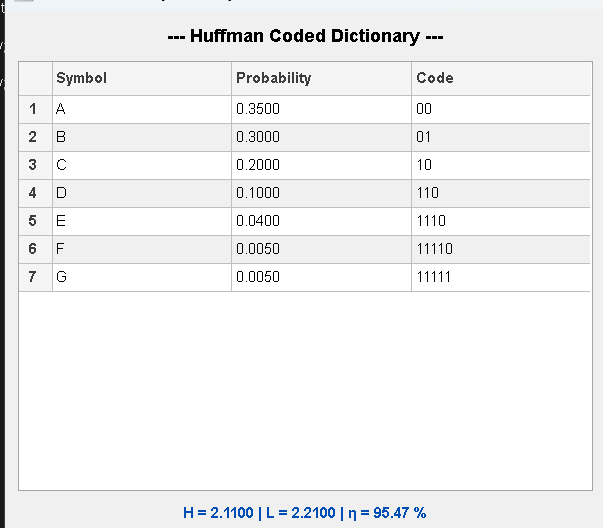
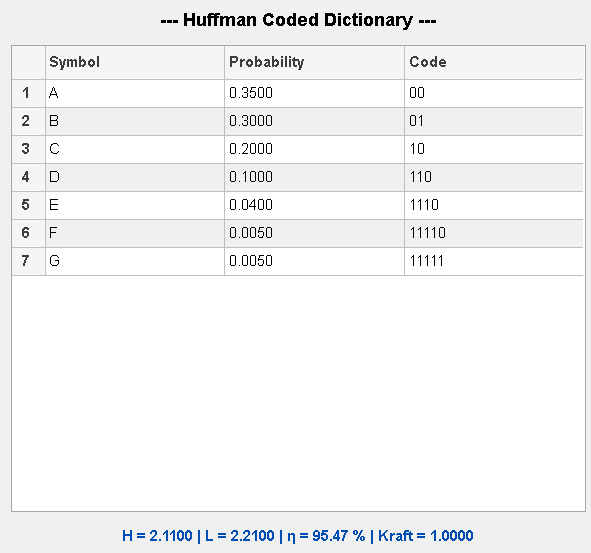
finished coding
now it's for fano!

Changed region(s): [[0.0, 0.0, 1.0, 1.0], [0.0914, 0.5152, 0.1218, 0.5455]]

diff --git a/Source Coding/Source_code.m b/Source Coding/Source_code.m
@@ -328,13 +328,13 @@ function print_symbols_dic(dict_input, H)
 end
 
 %% -------------------------------------------------------------------------
-%               Print Coded Dictionary Function
+%               Print Coded Dictionary Function (with Kraft Tree)
 % -------------------------------------------------------------------------
 function print_coded_dict(dict, H)
-% PRINT_CODED_DICT  Display Huffman dictionary with entropy, avg length, and efficiency
+% PRINT_CODED_DICT  Display Huffman dictionary with entropy, avg length, efficiency, and Kraft tree.
 %
 %   print_coded_dict(dict, H)
-% 
+%
 %   Inputs:
 %       dict - cell array {symbol, probability, code}
 %       H    - entropy (bits/symbol)
@@ -342,7 +342,8 @@ function print_coded_dict(dict, H)
 %   This function:
 %       • Calculates average length L(C)
 %       • Calculates efficiency η = (H / L) * 100%
-%       • Displays results in a styled MATLAB UI table and console output
+%       • Checks Kraft’s inequality and plots the Kraft tree
+%       • Displays all results in MATLAB UI + console
 
     % === Validate input ===
     if nargin < 1 || isempty(dict)
@@ -355,16 +356,6 @@ function print_coded_dict(dict, H)
         return;
     end
     
-    [ok, msg] = check_symbols(dict);
-    
-    % Display validation result
-    if ok
-        
-    else
-        disp(['❌ Error: ' msg]);
-        return;
-    end
-
     % === Extract data ===
     symbols = cellfun(@char, dict(:,1), 'UniformOutput', false);
     P       = cell2mat(dict(:,2));
@@ -373,7 +364,7 @@ function print_coded_dict(dict, H)
     % === Compute metrics ===
     L   = average_length_calc(dict);
     eta = efficiency_calc(H, L);
-    [kraft_sum, kraft_flag] = kraft_analysis(dict)
+    [kraft_sum, kraft_flag] = kraft_analysis(dict); 
 
     % === Print to Command Window ===
     fprintf('\n--- Final Huffman Coding Results ---\n');
@@ -386,12 +377,20 @@ function print_coded_dict(dict, H)
     fprintf('Entropy (H):           %.4f bits/symbol\n', H);
     fprintf('Average length (L):    %.4f bits/symbol\n', L);
     fprintf('Efficiency (η):        %.2f %%\n', eta);
+    fprintf('Kraft Sum:             %.4f\n', kraft_sum);
+    if kraft_flag == 2
+        fprintf('Kraft Result: ✅ Complete Prefix Code\n');
+    elseif kraft_flag == 1
+        fprintf('Kraft Result: ⚠ Valid but Not Complete\n');
+    else
+        fprintf('Kraft Result: ❌ Invalid Code\n');
+    end
 
     % === UI Figure ===
     f = uifigure('Name','Huffman Dictionary Summary', ...
                  'NumberTitle','off', ...
                  'Color','w', ...
-                 'Position',[500 300 480 420]);
+                 'Position',[500 200 480 450]);
 
     gl = uigridlayout(f,[3 1]);
     gl.RowHeight = {'fit', '1x', 'fit'};
@@ -415,15 +414,15 @@ function print_coded_dict(dict, H)
 
     % --- Summary Labels ---
     uilabel(gl, ...
-        'Text', sprintf('H = %.4f | L = %.4f | η = %.2f %%', H, L, eta), ...
+        'Text', sprintf('H = %.4f | L = %.4f | η = %.2f %% | Kraft = %.4f', H, L, eta, kraft_sum), ...
         'FontSize',12, ...
         'FontWeight','bold', ...
         'FontColor',[0 0.3 0.7], ...
         'HorizontalAlignment','center');
-    
-   
-    
+
 end
+
+
 
 %% -------------------------------------------------------------------------
 %               Print Kraft Inequality Function
